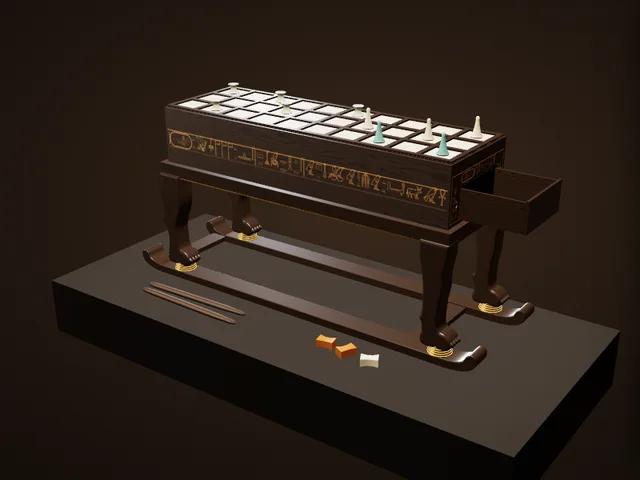
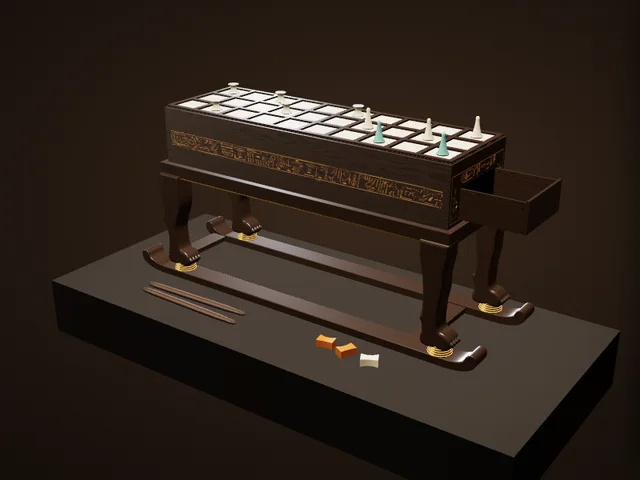
博物館：セネト盤の正面の銘文を展示写真から、双六局の唐草に巻きひげと蕾を追加
Claude-Session: https://claude.ai/code/session_01EiWRAZTxRF5M5nk5vdR2jJ

Changed region(s): [[0.25, 0.25, 0.7188, 0.4375], [0.75, 0.3125, 0.7812, 0.3438], [0.7188, 0.3438, 0.75, 0.375]]

diff --git a/atlas/museum/ex/sugoroku.js b/atlas/museum/ex/sugoroku.js
@@ -60,18 +60,24 @@
         const shield = (x, y, r) => { g.beginPath(); g.moveTo(x, y - r); g.bezierCurveTo(x + r * .5, y - r * .5, x + r * .95, y - r * .3, x + r * .8, y + r * .35); g.quadraticCurveTo(x + r * .4, y + r * .2, x, y + r * .6); g.quadraticCurveTo(x - r * .4, y + r * .2, x - r * .8, y + r * .35); g.bezierCurveTo(x - r * .95, y - r * .3, x - r * .5, y - r * .5, x, y - r); g.fillStyle = C.iv; g.fill(); g.strokeStyle = ol; g.lineWidth = s * .03; g.stroke();
           leaf(g, x - r * .45, y + r * .75, r * .5, .5); leaf(g, x + r * .45, y + r * .75, r * .5, Math.PI - .5); };
         const tulip = (x, y, r, a) => { g.save(); g.translate(x, y); g.rotate(a); [-.55, 0, .55].forEach(t => { g.save(); g.rotate(t); g.beginPath(); g.moveTo(0, r * .5); g.quadraticCurveTo(r * .42, 0, 0, -r); g.quadraticCurveTo(-r * .42, 0, 0, r * .5); g.fillStyle = C.iv; g.fill(); g.strokeStyle = ol; g.lineWidth = s * .03; g.stroke(); g.restore(); }); g.beginPath(); g.arc(0, r * .5, r * .2, 0, 6.29); g.fillStyle = '#2a160e'; g.fill(); g.restore(); };
-        return { ring, rosette, shield, tulip }; };
+        // a tendril curling in on itself, and a small heart-shaped ivory bud on a short stalk: the vine's fill between the larger flowers
+        const curl = (x, y, r, dir, a0) => { g.strokeStyle = C.bam; g.lineWidth = s * .05; g.beginPath(); for (let t = 0; t <= 1; t += .04) { const a = a0 + dir * t * 8.2, rr = r * (1 - t * .8), X = x + Math.cos(a) * rr, Y = y + Math.sin(a) * rr; t ? g.lineTo(X, Y) : g.moveTo(X, Y); } g.stroke(); };
+        const bud = (x, y, r, a) => { g.save(); g.translate(x, y); g.rotate(a); g.beginPath(); g.moveTo(0, r); g.bezierCurveTo(r * 1.1, r * .4, r * .9, -r * .9, 0, -r * .35); g.bezierCurveTo(-r * .9, -r * .9, -r * 1.1, r * .4, 0, r); g.fillStyle = C.iv; g.fill(); g.strokeStyle = ol; g.lineWidth = s * .025; g.stroke(); g.beginPath(); g.arc(0, r * .15, r * .28, 0, 6.29); g.fillStyle = '#2a160e'; g.fill(); g.restore(); };
+        return { ring, rosette, shield, tulip, curl, bud }; };
       // the band round the board's edge, composed as on the Shōsōin's frontal photographs: symmetric about a flowering sprig in the middle;
       // outward from it a bird flying in, then thin stems curling into rings that hold in turn a five-petalled blossom, a tulip-like
       // flower, a large eight-petalled rosette and a pointed ivory "shield", olive leaves between; on the short sides the birds are at the ends
       const band = (g, w, h, s, long) => { g.drawImage(shT.image, 0, 0, w, h); const cy = h * .5, R = h * .33, ol = 'rgba(30,14,8,.6)';
-        const { ring, rosette, shield, tulip } = MOT(g, s);
+        const { ring, rosette, shield, tulip, curl, bud } = MOT(g, s);
         const sprig = (x) => { g.strokeStyle = C.bam; g.lineWidth = s * .055; g.beginPath(); g.moveTo(x, h * .9); g.lineTo(x, cy); g.moveTo(x, h * .7); g.quadraticCurveTo(x - R * .5, h * .62, x - R * .75, cy - R * .1); g.moveTo(x, h * .7); g.quadraticCurveTo(x + R * .5, h * .62, x + R * .75, cy - R * .1); g.stroke();
           flower(g, x, cy - R * .45, R * .42); flower(g, x - R * .8, cy - R * .2, R * .38, .4); flower(g, x + R * .8, cy - R * .2, R * .38, .9); leaf(g, x - R * .55, h * .82, R * .5, -.4); leaf(g, x + R * .55, h * .82, R * .5, Math.PI + .4); leaf(g, x - R * 1.5, cy + R * .4, R * .5, .3); leaf(g, x + R * 1.5, cy + R * .4, R * .5, Math.PI - .3); };
         const half = w / 2, items = long ? [[.115, 'bird'], [.225, 'bud'], [.33, 'blossom'], [.45, 'tulip'], [.585, 'rosette'], [.71, 'shield'], [.82, 'blossom'], [.93, 'bud']] : [[.2, 'tulip'], [.38, 'rosette'], [.56, 'shield'], [.7, 'bud'], [.87, 'bird']];
         [-1, 1].forEach(sd => { const X = u => half + sd * u * half;
           // the stem: a long wave from the middle to the end
           g.strokeStyle = C.bam; g.lineWidth = s * .055; g.beginPath(); for (let u = .03; u <= .98; u += .004) { const y = cy + Math.sin(u * (long ? 26 : 15)) * h * .2; u > .031 ? g.lineTo(X(u), y) : g.moveTo(X(u), y); } g.stroke();
+          // between every two flowers the stem throws off tendrils above and below, each ending in a curl or a bud; a second stem crosses the first
+          g.strokeStyle = C.bam; g.lineWidth = s * .045; g.beginPath(); for (let u = .06; u <= .97; u += .004) { const y = cy - Math.sin(u * (long ? 26 : 15) + .9) * h * .27; u > .061 ? g.lineTo(X(u), y) : g.moveTo(X(u), y); } g.stroke();
+          for (let i = 0; i < items.length - 1; i++) { const u = (items[i][0] + items[i + 1][0]) / 2, x = X(u), d = i % 2 ? 1 : -1; curl(x - sd * R * .2, cy + d * h * .24, R * .42, sd * d, i); curl(x + sd * R * .5, cy - d * h * .27, R * .3, -sd * d, i + 2); bud(x + sd * R * .15, cy - d * h * .1, R * .2, d > 0 ? Math.PI : 0); }
           items.forEach(([u, kind], i) => { const x = X(u), y = cy + (i % 2 ? .06 : -.06) * h;
             if (kind === 'bird') { bird(g, x, cy + h * .06, h * .017, sd > 0 ? !long : long); return; }
             if (kind === 'bud') { [[-.3, -.2], [.3, .25]].forEach(([dx, dy]) => { g.beginPath(); g.arc(x + dx * R, y + dy * R, R * .2, 0, 6.29); g.fillStyle = C.iv; g.fill(); g.strokeStyle = ol; g.lineWidth = s * .03; g.stroke(); g.beginPath(); g.arc(x + dx * R, y + dy * R, R * .08, 0, 6.29); g.fillStyle = '#2a160e'; g.fill(); }); leaf(g, x, y - R * .7, R * .45, .2 * sd); return; }
@@ -157,9 +163,10 @@
         // a vine up each leg and the post (the frontal photographs): thin stems in rings; on a leg, from the top, a blossom, a tulip, a white
         // ribbon-bird, a rosette and a pointed shield; on the post two blossoms, a bird, a tulip and at the foot two rosettes side by side
         { const { ring, rosette, shield, tulip } = MOT(g, s), top = s * 1.3, bot = h - s * .5, span = bot - top;
-          cols.forEach((cxm, ci) => { const post = ci >= 2, x = cxm * s, R = s * (post ? .8 : .72), Y = f => top + f * span;
+          const { curl, bud } = MOT(g, s); cols.forEach((cxm, ci) => { const post = ci >= 2, x = cxm * s, R = s * (post ? .8 : .72), Y = f => top + f * span;
             g.strokeStyle = C.bam; g.lineWidth = s * .055; g.beginPath(); for (let f = 0; f <= 1; f += .01) { const xx = x + Math.sin(f * 15 + ci) * s * (post ? .5 : .32) * (post ? .6 + Math.abs(f - .45) * 1.6 : 1); f ? g.lineTo(xx, Y(f)) : g.moveTo(xx, Y(f)); } g.stroke();
             const its = post ? [[.07, 'blossom', -.55], [.07, 'blossom', .55], [.26, 'blossom', 0], [.43, 'bird', 0], [.58, 'tulip', 0], [.8, 'rosette', -1.15], [.8, 'rosette', 1.15], [.93, 'bud', 0]] : [[.08, 'blossom', 0], [.26, 'tulip', 0], [.43, 'ribbon', 0], [.6, 'rosette', 0], [.82, 'shield', .25 * (ci ? -1 : 1)]];
+            for (let q = 0; q < (post ? 7 : 6); q++) { const f = .15 + q * (post ? .115 : .135), d = q % 2 ? 1 : -1, wd = post ? .75 : .5; curl(x + d * s * wd, Y(f), R * .42, d, q); bud(x - d * s * wd * .85, Y(f + .03), R * .2, d * 1.2); }   // tendrils and buds either side of the stem
             its.forEach(([f, kind, dx], i) => { const xx = x + dx * s, y = Y(f), d = i % 2 ? 1 : -1;
               if (kind === 'bird') { g.save(); g.translate(xx, y); g.rotate(-Math.PI / 2.4); bird(g, 0, 0, s * .03, false); g.restore(); return; }
               if (kind === 'ribbon') { g.strokeStyle = C.iv; g.lineWidth = s * .16; g.lineCap = 'round'; g.beginPath(); g.moveTo(xx - R * .7, y + R * .3); g.bezierCurveTo(xx - R * .2, y - R * .5, xx + R * .1, y + R * .5, xx + R * .7, y - R * .2); g.stroke(); return; }

diff --git a/atlas/museum/ex/senet.js b/atlas/museum/ex/senet.js
@@ -13,6 +13,7 @@
    upturned ends and cross-bars; shown as displayed, the drawer open and reels and cones on the board. */
 (function () {
   'use strict';
+  const HERE = (document.currentScript && document.currentScript.src) || location.href; let TXT = null;
   (window.AtlasEx = window.AtlasEx || {}).senet = {
     build(TT, X, K) {
       const G = new TT.Group();
@@ -41,17 +42,19 @@
       const RING = { C1: ['\u{131F3}', '\u{131A3}', '\u{133E5}', '\u{1339F}'], C2: ['\u{131CB}', '\u{133E0}', '\u{13216}', '\u{133CF}', '\u{13171}', '\u{133CF}', '\u{132F9}'] };
       const yel = 'rgba(214,160,84,.92)';
       // a row of signs in a box x0..x0+ww, centred on cy, bh high; returns nothing. Signs are fitted to the row, the stacked ones half height.
-      const row = (g, toks, x0, cy, ww, bh) => { g.fillStyle = g.strokeStyle = yel; g.textBaseline = 'middle'; g.textAlign = 'left';
+      const row = (g, toks, x0, cy, ww, bh) => { const ft = (c, x, y) => { g.lineWidth = bh * .028; g.lineJoin = 'round'; g.strokeText(c, x, y); };   // (the signs are cut as thin outlines, not filled shapes: the museum photograph)
+        g.fillStyle = g.strokeStyle = yel; g.textBaseline = 'middle'; g.textAlign = 'left';
         const F = n => { g.font = `${Math.round(bh * n)}px ${HF}`; }, wOf = t => { if (RING[t]) return bh * (t === 'C1' ? 2.3 : 3.3); if (Array.isArray(t)) { F(.46); return Math.max(...t.map(c => g.measureText(c).width)); } F(.92); return g.measureText(t).width; };
         const ws = toks.map(wOf), gap = bh * .07, nat = ws.reduce((a, c) => a + c, 0) + gap * (toks.length - 1), k = Math.min(1.25, ww / nat); let x = x0 + (ww - nat * k) / 2;
         toks.forEach((t, i) => { const wd = ws[i] * k; g.save(); g.translate(x, cy); g.scale(k, 1);
           if (RING[t]) { const cw = ws[i], ch = bh * .96; g.lineWidth = bh * .05; g.beginPath(); g.roundRect(0, -ch / 2, cw - bh * .1, ch, ch / 2); g.stroke(); g.beginPath(); g.moveTo(cw - bh * .04, -ch * .42); g.lineTo(cw - bh * .04, ch * .42); g.stroke();
-            F(.6); const inner = RING[t], iw = inner.reduce((a, c) => a + g.measureText(c).width, 0), kk = Math.min(1, (cw - bh * .55) / iw); let xx = bh * .22; inner.forEach(c => { g.save(); g.translate(xx, 0); g.scale(kk, 1); g.fillText(c, 0, 0); g.restore(); xx += g.measureText(c).width * kk; }); }
-          else if (Array.isArray(t)) { F(.46); t.forEach((c, j) => g.fillText(c, (ws[i] - g.measureText(c).width) / 2, (j ? .25 : -.25) * bh)); }
-          else { F(.92); g.fillText(t, 0, 0); }
+            F(.6); const inner = RING[t], iw = inner.reduce((a, c) => a + g.measureText(c).width, 0), kk = Math.min(1, (cw - bh * .55) / iw); let xx = bh * .22; inner.forEach(c => { g.save(); g.translate(xx, 0); g.scale(kk, 1); ft(c, 0, 0); g.restore(); xx += g.measureText(c).width * kk; }); }
+          else if (Array.isArray(t)) { F(.46); t.forEach((c, j) => ft(c, (ws[i] - g.measureText(c).width) / 2, (j ? .25 : -.25) * bh)); }
+          else { F(.92); ft(t, 0, 0); }
           g.restore(); x += wd + gap * k; }); };
-      const textTex = (len, ht, toks, mirror) => { const PX = 2048, s = PX / len; return K.tex(PX, Math.round(ht * s), (g, w, h) => {
+      const textTex = (len, ht, toks, mirror, real) => { const PX = 2048, s = PX / len; return K.tex(PX, Math.round(ht * s), (g, w, h) => {
         g.drawImage(ebonyT.image, 0, 0, w, h);
+        if (real && TXT) { const iw = w * .984, ih = iw * TXT.height / TXT.width; g.globalAlpha = .78; g.drawImage(TXT, w * .006, h * .52 - ih / 2, iw, ih); g.globalAlpha = 1; return; }   // the side toward the visitor: the inscription itself, lifted from a photograph of the box in its case (thin incised outlines, a few signs filled)
         const cy = h * .53, bh = s * 2.1;   // one band a little below the middle (the museum's photograph)
         if (mirror) { g.translate(w, 0); g.scale(-1, 1); }   // read from the right: the signs face the other way
         g.strokeStyle = yel; g.lineWidth = s * .05; [cy - bh / 2 - s * .14, cy + bh / 2 + s * .14].forEach(y => { g.beginPath(); g.moveTo(s * .3, y); g.lineTo(w - s * .3, y); g.stroke(); });
@@ -61,7 +64,7 @@
       const NAMES = T(0x132F9, 0x13143, 0x130D2, 0x130A1, [0x133CF, 0x133CF], 0x13171, 0x1311F, [0x132F4, 0x133CF], 0x13171, 0x13152, 0x13124, [0x13254, 0x132AA], 0x13171, 0x132F4, [0x133BC, 0x1308B], 0x1339B, [0x131FE, 0x131FE], 0x13149, 0x1335E, [0x1320D, 0x133E5], 0x132F4, 0x132B5, [0x133CF, 0x132AA], 0x132B9, 0x132B9, 0x132B9, 0x131D3, 0x131A4, [0x133CF, 0x133CF], 'C1');
       const SIDEB = T(0x132F9, 0x132B9, 0x13124, 0x1339F, [0x131FE, 0x131FE], 0x1339F, [0x13079, 0x133CF], [0x1340D, 0x133CF], 0x131D3, 0x131A4, [0x133CF, 0x133CF], 'C1', 0x1316D, 0x131F3, 'C2', [0x133D9, 0x132F9], 0x13193, [0x133CF, 0x131FE]);
       const ENDT = T(0x133D9, 0x132F9, 0x132BD, 0x13300, [0x133C7, 0x131F3], 0x13193, [0x133CF, 0x131FE]);
-      const sideT = textTex(L, BH, NAMES, true), sideT2 = textTex(L, BH, SIDEB, false), endT = textTex(W, BH, ENDT, false);
+      const sideT = textTex(L, BH, NAMES, true, true), sideT2 = textTex(L, BH, SIDEB, false), endT = textTex(W, BH, ENDT, false);
       // the drawer's end of the box: a frame of text round the opening (Carter's sketch c)
       const frameT = K.tex(1024, Math.round(1024 * BH / W), (g, w, h) => { g.drawImage(ebonyT.image, 0, 0, w, h); const s = w / W, hx0 = (W - 9.5) / 2 * s, hx1 = w - hx0, hy1 = h - .9 * s, hy0 = hy1 - 4.0 * s, bh = s * 1.15;
         row(g, T('C1', 0x132B9, 0x13124, 0x1339F, [0x131FE, 0x131FE], 0x133D9, 0x132F9), hx0 - s * 1.2, hy0 - bh * .75, hx1 - hx0 + s * 2.4, bh);
@@ -162,12 +165,12 @@
       [[9, 12.6, amber, .2], [12.2, 12.9, amber, 1.1], [15.8, 13.2, ivory, .5]].forEach(([x, z, m, r]) => { const kb = new TT.Mesh(new TT.BoxGeometry(2.2, 1.0, 1.5, 3, 2, 2), m); const P = kb.geometry.attributes.position; for (let i = 0; i < P.count; i++) { const px = P.getX(i), py = P.getY(i), pz = P.getZ(i), pinch = 1 - .28 * Math.cos(px / 1.1 * Math.PI / 2) ; P.setXYZ(i, px, py * (.8 + .2 * Math.abs(px) / 1.1), pz * pinch); } kb.geometry.computeVertexNormals(); kb.position.set(x, .5, z); kb.rotation.y = r; G.add(kb); });
       return G;
     },
-    ready: () => new Promise(res => {   // the hieroglyph font: wait for its stylesheet, then for the face itself
+    ready: () => new Promise(res => { const im = new Image(); im.onload = () => { TXT = im; res(); }; im.onerror = () => res(); im.src = new URL('../../../images/atlas/ex/senet-text.webp', HERE).href; setTimeout(res, 8000); }).then(() => new Promise(res => {   // the hieroglyph font: wait for its stylesheet, then for the face itself
       const go = () => (document.fonts && document.fonts.load ? document.fonts.load('40px "Noto Sans Egyptian Hieroglyphs"', '\u{131F3}\u{1319F}\u{13079}') : Promise.resolve()).catch(() => {}).then(res);
       let l = document.querySelector('link[href*="Egyptian+Hieroglyphs"]');
       if (l && l.sheet) return go();
       if (!l) { l = document.createElement('link'); l.rel = 'stylesheet'; l.href = 'https://fonts.googleapis.com/css2?family=Noto+Sans+Egyptian+Hieroglyphs&display=swap'; document.head.appendChild(l); }
       l.addEventListener('load', go); l.addEventListener('error', res); setTimeout(res, 4000);
-    }),
+    })),
   };
 })();

diff --git a/atlas/museum/gallery-ja.js b/atlas/museum/gallery-ja.js
@@ -27,7 +27,7 @@
         ['獅子の脚', '台の4本の脚は獅子の脚の形で、前脚2本・後脚2本がみな引き出しの側を向きます。足は金の段つきの円筒の上。記録には「爪は象牙」とあります。'],
         ['そりの滑り木', '台は長さ55cmのそりの滑り木の上に載っています。'],
         ['距骨と投げ棒', 'さいころの代わりに投げた道具。記録では象牙の距骨2つと、上が黒檀・下が象牙の投げ棒2組（端は人の指とキツネの頭の形）。ここでは展示のとおり、木の投げ棒2本と距骨3つを置いています。']],
-      model: "寸法と銘文はカーターの記録、形と色は展示写真に合わせました。台の高さは写真から測った値です。",
+      model: "寸法はカーターの記録、形と色は展示写真に合わせました。正面の銘文は展示写真から写し、ほかの面の銘文は記録の文面をフォントの線で表しています。",
       src: [['グリフィス研究所 カーター記録カード 345（箱・引き出し・台）', 'https://www.griffith.ox.ac.uk/gri/carter/345-c345-01.html'], ['同 345-02（銘文・台）', 'https://www.griffith.ox.ac.uk/gri/carter/345-c345-02.html'], ['同 345-03（距骨・投げ棒）', 'https://www.griffith.ox.ac.uk/gri/carter/345-c345-03.html'], ['Global Egyptian Museum「Senet Game of Tutankhamun」(JE 62058)', 'https://www.globalegyptianmuseum.org/detail.aspx?id=15033']] },
     shosoin: { name: '木画紫檀棊局', alt: '正倉院の碁盤 — Go Board of Shitan with Marquetry', date: '7〜8世紀', where: '日本（奈良・正倉院）', found: '聖武天皇ゆかりの品として正倉院に伝来（756年の献納品のひとつ）',
       museum: '正倉院（宮内庁）', no: '北倉36', mat: '紫檀（芯は松）、象牙、木画（さまざまな木や角・象牙の寄せ木細工）', size: '縦49.0cm・横48.8cm・高さ12.7cm',

diff --git a/atlas/museum.js b/atlas/museum.js
@@ -32,7 +32,7 @@
   const ROOMS = [
     { id: 'map', ready: () => !!window.AtlasMap, render: (el, c) => AtlasMap.render(el, c) },
     { id: 'tree', src: ['museum/tree.js?v=3'], ready: () => !!window.AtlasTree, render: (el, c) => AtlasTree.render(el, c) },
-    { id: 'gallery', src: ['museum/gallery.js?v=79'], ready: () => !!window.AtlasGallery, render: (el, c) => AtlasGallery.render(el, c) },
+    { id: 'gallery', src: ['museum/gallery.js?v=80'], ready: () => !!window.AtlasGallery, render: (el, c) => AtlasGallery.render(el, c) },
   ];
   const KEY = 'atlas-museum-room';
   const esc = s => String(s == null ? '' : s).replace(/[&<>"]/g, c => ({ '&': '&amp;', '<': '&lt;', '>': '&gt;', '"': '&quot;' }[c]));

diff --git a/atlas/index.html b/atlas/index.html
@@ -2559,7 +2559,7 @@ window.AtlasRgdTimer = function (btn, ms, alive) {
 <link rel="stylesheet" href="worldmap.css?v=19">
 <link rel="stylesheet" href="museum.css?v=4">
 <script src="worldmap.js?v=40"></script>
-<script src="museum.js?v=80"></script>
+<script src="museum.js?v=81"></script>
 <script src="npc/npc.js?v=46"></script>
 <script src="avtalk.js?v=4"></script>
 <script>/* Page states as classes on <html> (2026-11-21) — html.cov-on: the 3D view / Historia / a sheet / a level sheet is open;

diff --git a/atlas/museum/gallery.js b/atlas/museum/gallery.js
@@ -10,7 +10,7 @@
    (a turn, a zoom, the slow turntable) and never while the window is in the background. */
 (function () {
   'use strict';
-  const V = 79;
+  const V = 80;
   /* ---------- the pieces: id, the game it belongs to, its scale (cm per model unit), the camera's start, the details ----------
      lock: { game, ach } → open after that many achievements of the game. src: the files the piece needs (besides ex/<id>.js) */
   const EX = [

diff --git a/claude/museum-spec.md b/claude/museum-spec.md
@@ -90,6 +90,8 @@
   - 双六局の側面の帯（描画）：正面写真の構成に合わせる（中央に花の小枝、長辺はその両脇に内向きの鳥、外へ向かって輪の中に五弁花・チューリップ形・八弁の大きな花・尖った象牙の盾形、オリーブ色の葉。短辺は鳥が両端）。帯は盤の厚みと壁の2つの部品にまたがるので、短辺の壁（長辺より短い）では同じ絵を切り出して貼る（引き伸ばすと継ぎ目でずれる）。
   - ダイスタワーの側面（博物館写真とDAIの写真を拡大して確認）：方形の区画が上下2つ。各区画は、段のある十字形の小孔が1辺5つで縁を回り、その内側は斜めの尖った楕円の孔が2×2の升ごとにX字に4つ（四弁の花が並んで見える）と小さな点。先の版の「八弁ロゼット」は誤り。孔の間には同心円の刻み、2つの区画の間の無地の帯には刻み目のある浅い弧（バンプで表現）。
   - 木画紫檀棊局の脚・柱の図（鳥・山・鹿）：細部写真429から抜き出した8つの小図（images/atlas/ex/shosoin-legs.webp）を、写真の配置（上に鳥、中ほどに山、足元に鹿。柱は象牙の線の両側）で貼る。
+  - セネト盤の銘文（2026-11-22）：見学者側の長い側面は、展示写真（4032px、銘文の帯が約3400×215px）から刻線を抜き出した画像（images/atlas/ex/senet-text.webp）を貼る。実物は細い輪郭線の彫りで、一部だけ塗りつぶし。抜き出しは「周囲より明るい＋暖色」を連続値で取り、暗い部分は利得を上げ、木目の横筋（低く横長の小片）を除く。ほかの面は写真がないので、記録の文面をフォントの輪郭線（塗りなし）で描く。
+  - 双六局の唐草の密度：主茎に交差する2本目の茎、花の間の巻きひげ（渦）と心形の小さな蕾を足す（帯・床脚・柱）。
   - **スマホのテクスチャ上限**：スマホ（幅820px未満）では、読み込み時に長辺1536pxを超えるテクスチャを1536pxに縮める（gallery.js の small()。2048²は1枚22MB）。
   - **同じ平面に面を重ねない／透かしはアルファ・トゥ・カバレッジ**：隣り合う部品の面が同じ平面にあると遠目でちらつく（双六局の隅の脚。片方を少し短くする）。alphaTest の透かし（ダイスタワー）は `alphaToCoverage: true` を付けて縁を滑らかにする。
   - **重さの基準**：三角形は展示1点 8万以下（`atlas/tools/exrender.html` が `window.stats` に三角形数・メッシュ数・テクスチャの枚数とメモリを出す）。
